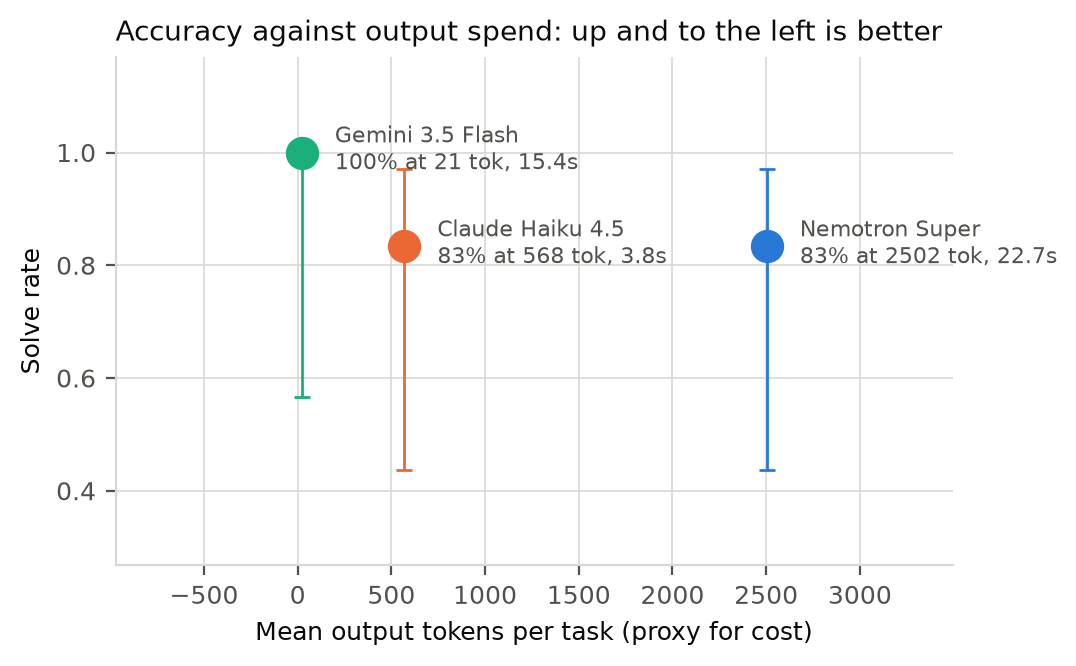
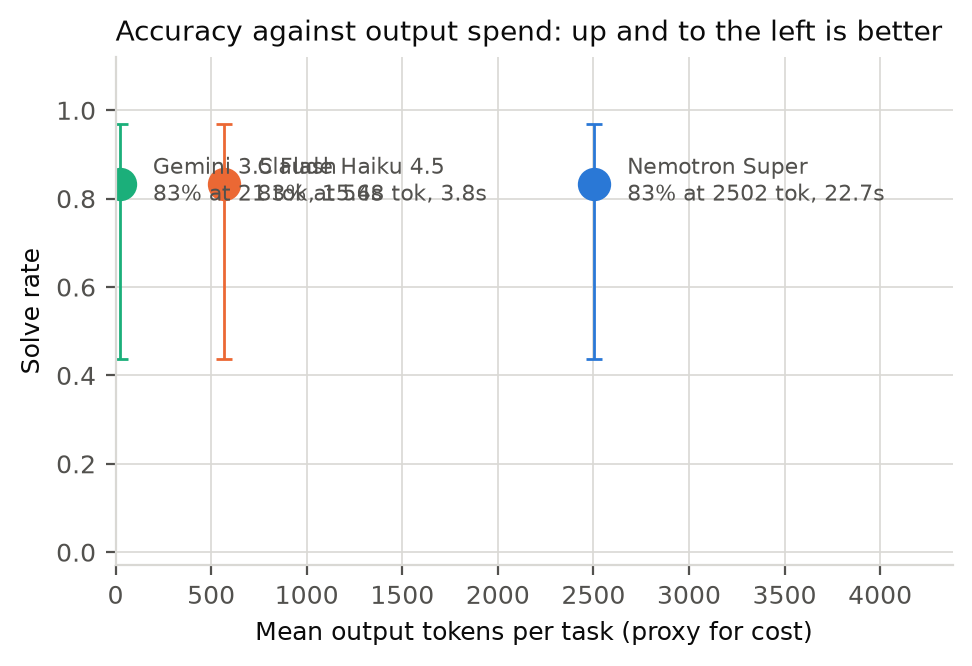
fix: figure 3 contradicted table 1, and had impossible axis values
The efficiency scatter computed its solve rate over non-errored calls
while Table 1 used every attempted item, so the same model appeared as
100% in the figure and 83.3% in the table. Solve rate now uses the same
denominator as the table; tokens and latency still average over calls
that returned, since they are undefined otherwise.

Also: the x axis ran to -500 output tokens, which cannot happen, and the
rightmost annotation was clipped. Axis now starts at zero with room for
labels, and scatter labels are staggered because the points cluster at
similar accuracy.

diff --git a/scripts/make_figures.py b/scripts/make_figures.py
@@ -35,6 +35,9 @@ LABEL = {
 INK, INK2, GRID = "#0b0b0b", "#52514e", "#d9d8d4"
 # vertical offsets (points) so converging end-labels do not overlap
 LABEL_DY = {"nemotron": 13, "claude": 0, "gemini": -13}
+# larger offsets for the scatter, where labels are two lines tall and the
+# points cluster at similar accuracy
+LABEL_DY_SCATTER = {"nemotron": 0, "claude": 30, "gemini": -30}
 
 plt.rcParams.update({
     "figure.dpi": 200, "savefig.dpi": 200, "savefig.bbox": "tight",
@@ -219,13 +222,20 @@ def fig_efficiency(recs, out="fig3_efficiency.png"):
     budgets = sorted({r["max_tokens"] for r in recs if r["max_tokens"]})
     top = budgets[-1] if budgets else None
     fig, ax = plt.subplots(figsize=(5.4, 3.3))
+    max_tok = 0
     for model, colour in SERIES.items():
-        rows = [r for r in sel(recs, model, top) if not r["error"]]
-        if not rows:
+        all_rows = sel(recs, model, top)
+        ok = [r for r in all_rows if not r["error"]]
+        if not ok:
             continue
-        p, lo, hi, _ = rate(rows)
-        tok = sum(r["output_tokens"] for r in rows) / len(rows)
-        lat = sorted(r["latency_s"] for r in rows)[len(rows) // 2]
+        # Solve rate over EVERY attempted item, matching Table 1. Tokens and
+        # latency are only defined for calls that returned, so those average
+        # over successes. Using different denominators for the two axes of the
+        # same point would put a number here that contradicts the table.
+        p, lo, hi, _ = rate(all_rows)
+        tok = sum(r["output_tokens"] for r in ok) / len(ok)
+        lat = sorted(r["latency_s"] for r in ok)[len(ok) // 2]
+        max_tok = max(max_tok, tok)
         ax.errorbar([tok], [p], yerr=[[p - lo], [hi - p]], color=colour,
                     marker="o", markersize=11, capsize=3, elinewidth=1, linestyle="none")
         ax.annotate(f"{LABEL[model]}\n{p:.0%} at {tok:.0f} tok, {lat:.1f}s",
@@ -234,7 +244,10 @@ def fig_efficiency(recs, out="fig3_efficiency.png"):
     ax.set_xlabel("Mean output tokens per task (proxy for cost)")
     ax.set_ylabel("Solve rate")
     ax.set_title("Accuracy against output spend: up and to the left is better", loc="left")
-    ax.margins(x=0.40, y=0.30)
+    # Token counts cannot be negative, and the right edge needs room for the
+    # longest annotation rather than clipping it.
+    ax.set_xlim(0, max_tok * 1.75 if max_tok else 1)
+    ax.set_ylim(-0.03, 1.12)
     _tidy(ax)
     fig.savefig(FIGDIR / out)
     plt.close(fig)

diff --git a/paper/main.tex b/paper/main.tex
@@ -127,10 +127,22 @@ count. We therefore do not plot accuracy against parameter count, because doing
 so for the other two would require inventing numbers.
 
 \subsection{Experimental controls}
-Every model receives the byte identical prompt taken from the dataset, with no
-per model prompt engineering, so the comparison measures the model rather than
-our prompt writing. Sampling temperature is zero wherever the vendor SDK exposes
-it. Latency is measured around the successful request only, excluding our own
+Every model receives the byte identical user prompt taken from the dataset, with
+no per model prompt engineering, so the comparison measures the model rather
+than our prompt writing. One deliberate asymmetry exists and we state it
+plainly: \nemotronName{} is sent the vendor documented reasoning control
+(\texttt{detailed thinking off}) in a system turn, which the other two models do
+not receive because they have no equivalent. We use it because running a model
+outside its documented configuration is the less defensible choice, but it is
+not a neutral difference and a reader should know it is there.
+
+We note in passing that this control did not do what its name suggests. With
+\texttt{detailed thinking off} set, \nemotronName{} still emitted extended
+derivations, averaging thousands of output tokens per item, which is precisely
+what makes it vulnerable to the ceiling effect. Practitioners relying on that
+toggle to bound output length should verify it empirically rather than trust it.
+
+Sampling temperature is zero wherever the vendor SDK exposes it. Latency is measured around the successful request only, excluding our own
 retry backoff, so that rate limiting imposed by our billing tier is not charged
 to a model's speed. Items are sampled stratified by participant count, because
 the raw distribution is half two participant items and a uniform sample would

diff --git a/paper/numbers.tex b/paper/numbers.tex
@@ -7,11 +7,11 @@
 \newcommand{\nemotronHighAcc}{83.3\%}
 \newcommand{\nemotronTruncLow}{100.0\%}
 \newcommand{\nemotronTruncHigh}{16.7\%}
-\newcommand{\claudeTruncLow}{44.4\%}
+\newcommand{\claudeTruncLow}{42.6\%}
 \newcommand{\nemotronCondLow}{0.0\%}
 \newcommand{\nemotronCondHigh}{100.0\%}
 \newcommand{\nemotronCondLowN}{0}
-\newcommand{\claudeLowAcc}{46.7\%}
+\newcommand{\claudeLowAcc}{48.9\%}
 \newcommand{\claudeHighAcc}{83.3\%}
 \newcommand{\geminiLowAcc}{16.7\%}
 \newcommand{\geminiHighAcc}{83.3\%}
